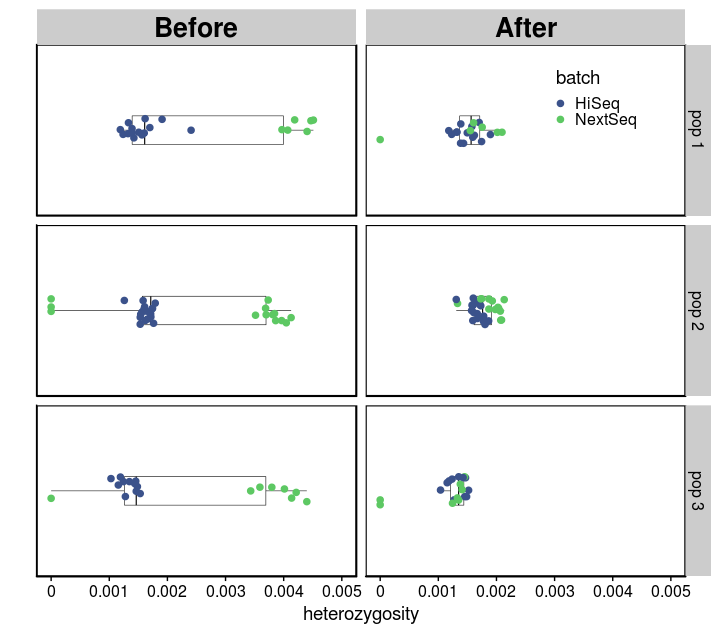
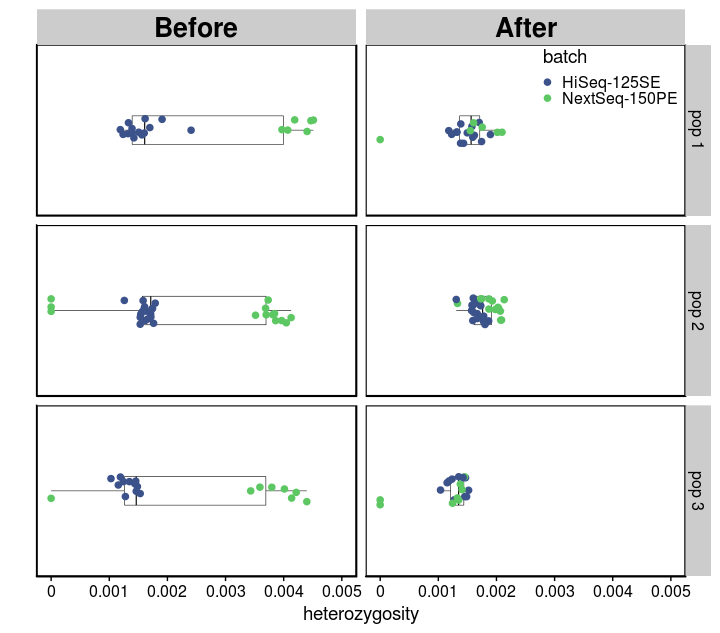
editted batch names

Changed region(s): [[0.7333, 0.06, 0.9472, 0.2101]]

diff --git a/markdown/figures.md b/markdown/figures.md
@@ -54,7 +54,7 @@ for (i in 1:nrow(sample_table)){
 het_gg <- het_final %>%
   left_join(rename_pop) %>%
   mutate(type=fct_relevel(type, c("Before", "After"))) %>%
-  mutate(batch=ifelse(data_type=="pe", "NextSeq", "HiSeq")) 
+  mutate(batch=ifelse(data_type=="pe", "NextSeq-150PE", "HiSeq-125SE")) 
 set.seed(42)
 het_plot <- het_gg %>%
   filter(population %in% c("KNG2011", "QQL2011", "ITV2011")) %>%
@@ -70,7 +70,7 @@ het_plot <- het_gg %>%
   coord_flip() +
   theme_cowplot() +
   theme(panel.background=element_rect(colour="black", size=0.8),
-        legend.position = c(0.8, 0.9),
+        legend.position = c(0.78, 0.94),
         legend.key.size = unit(0.5, 'lines'),
         strip.text.x = element_text(face = "bold", size=20),
         axis.text.y = element_blank(),
@@ -101,7 +101,7 @@ these plots for clearer results.
 pca_combined <- bind_rows(bind_cols(pca_before, type="Before"), 
                           bind_cols(pca_after, type="After")) %>%
   mutate(type=fct_relevel(type, c("Before", "After"))) %>%
-  mutate(batch=ifelse(data_type=="se", "HiSeq", "NextSeq"))
+  mutate(batch=ifelse(data_type=="se", "HiSeq-125SE", "NextSeq-150PE"))
 pca_combined_select_pops <- filter(pca_combined, population %in% c("KNG2011", "QQL2011", "ITV2011"))
 pca_plot <- pca_combined_select_pops %>%
   left_join(rename_pop) %>%
@@ -116,7 +116,7 @@ pca_plot <- pca_combined_select_pops %>%
   theme(axis.text = element_blank(),
         axis.ticks = element_blank(),
         panel.border = element_rect(colour="black",size=0.5),
-        legend.position = c(0.85, 0.92),
+        legend.position = c(0.78, 0.94),
         legend.key.size = unit(0.5, 'lines'),
         strip.text.x = element_text(face = "bold", size=20))
 pca_plot
